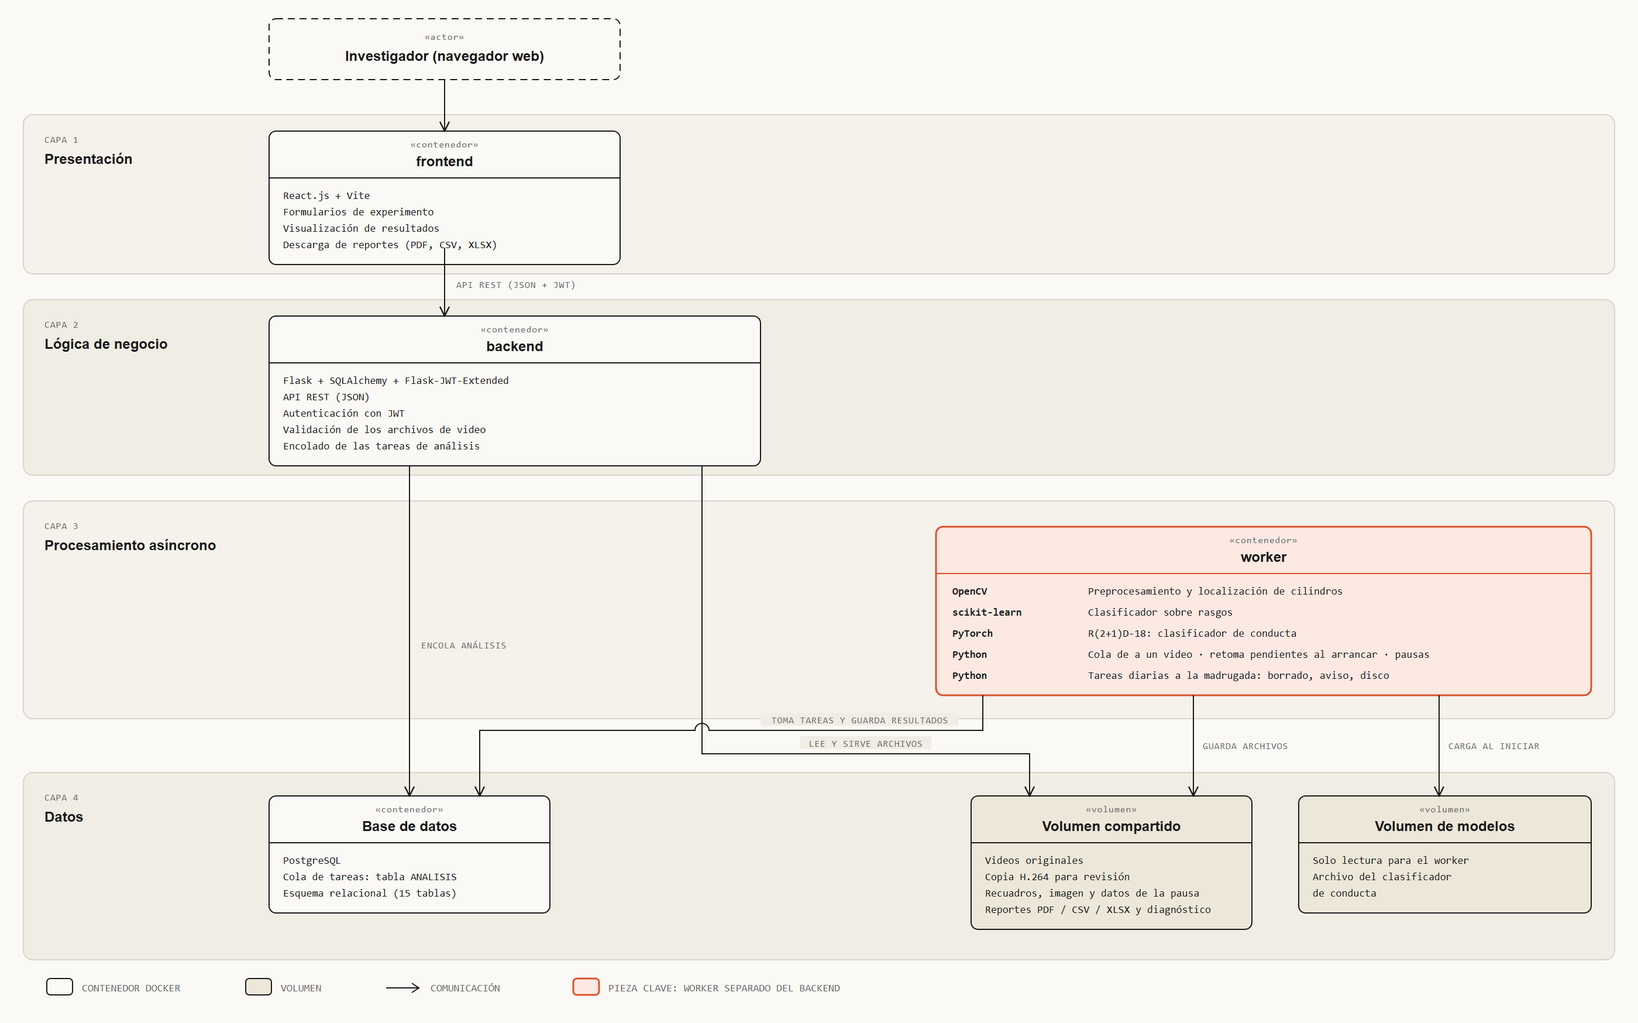
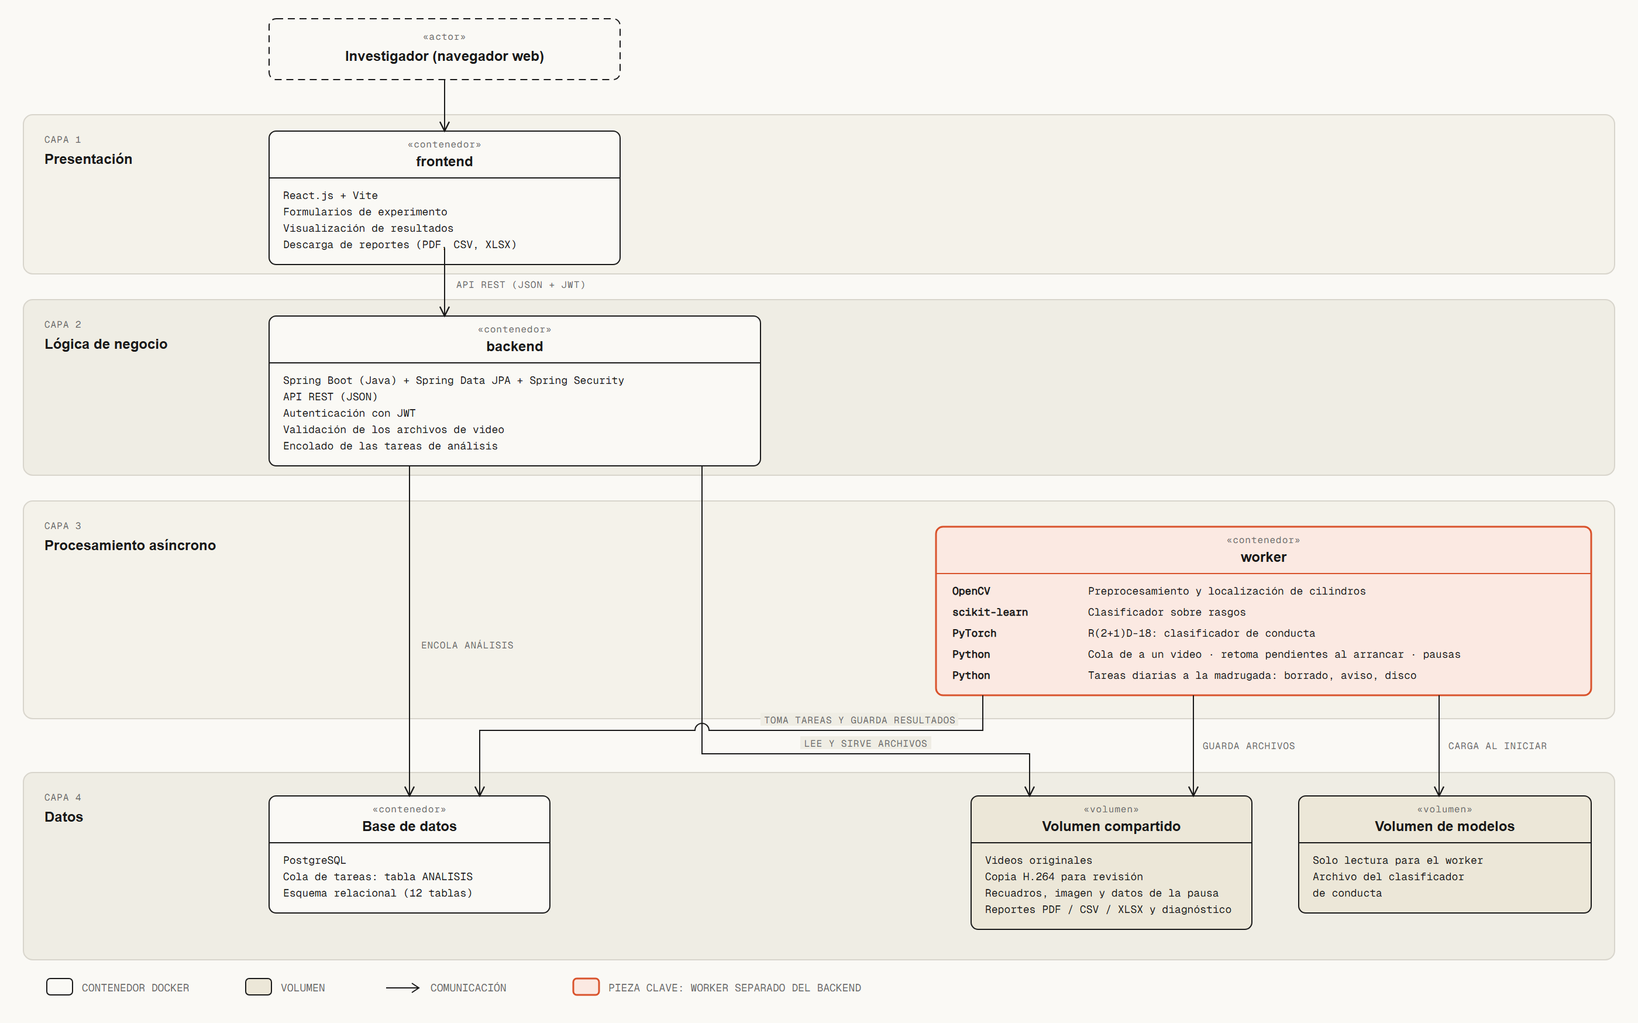
Propagar el backend en Spring Boot (D-105) a los capítulos 1, 3, 4 y 5, el glosario, la bibliografía y las figuras de arquitectura
Flask, SQLAlchemy y Flask-JWT-Extended pasan a Spring Boot con Spring Data JPA e Hibernate y Spring Security: cronograma y stack del capítulo 1, arquitectura del capítulo 3, tabla de herramientas, licencias, costos y mantenibilidad del capítulo 4, componentes del capítulo 5 y entradas del glosario. Se reemplaza la cita del libro de Flask por la documentación de Spring Boot y se quita la cita que respaldaba la separación de capas y las convenciones HTTP. Se regeneran las figuras de capas y de contenedores y se corrige en ellas el conteo de tablas (12).

diff --git a/diagramas/diagram_design/arquitectura_capas.html b/diagramas/diagram_design/arquitectura_capas.html
@@ -8,7 +8,7 @@ body{overflow-x:auto;overflow-y:hidden}
 svg{display:block;height:100vh;width:auto}
 </style></head><body><svg viewBox="0 6 1400 874" role="img" aria-labelledby="ca-title ca-desc" xmlns="http://www.w3.org/2000/svg">
 <title id="ca-title">Arquitectura de software por capas</title>
-<desc id="ca-desc">Cuatro capas: presentación (React), lógica de negocio (Flask), procesamiento asíncrono (worker con OpenCV, scikit-learn y PyTorch) y datos (PostgreSQL y dos volúmenes).</desc>
+<desc id="ca-desc">Cuatro capas: presentación (React), lógica de negocio (Spring Boot), procesamiento asíncrono (worker con OpenCV, scikit-learn y PyTorch) y datos (PostgreSQL y dos volúmenes).</desc>
 <defs><marker id="c-arr" viewBox="0 0 10 10" refX="9" refY="5" markerWidth="10" markerHeight="10" markerUnits="userSpaceOnUse" orient="auto"><path d="M1,1 L9,5 L1,9" fill="none" stroke="#1a1a1a" stroke-width="1.2"/></marker></defs>
 <style>
 .a{font:400 9px 'Geist Mono',monospace;fill:#1a1a1a}
@@ -44,7 +44,7 @@ svg{display:block;height:100vh;width:auto}
 <text x="440.0" y="290" text-anchor="middle" class="st">«contenedor»</text>
 <text x="440.0" y="306" text-anchor="middle" class="nm">backend</text>
 <line x1="230" y1="316" x2="650" y2="316" stroke="#1a1a1a"/>
-<text x="242" y="334" class="a">Flask + SQLAlchemy + Flask-JWT-Extended</text>
+<text x="242" y="334" class="a">Spring Boot (Java) + Spring Data JPA + Spring Security</text>
 <text x="242" y="348" class="a">API REST (JSON)</text>
 <text x="242" y="362" class="a">Autenticación con JWT</text>
 <text x="242" y="376" class="a">Validación de los archivos de video</text>
@@ -69,7 +69,7 @@ svg{display:block;height:100vh;width:auto}
 <line x1="230" y1="726" x2="470" y2="726" stroke="#1a1a1a"/>
 <text x="242" y="744" class="a">PostgreSQL</text>
 <text x="242" y="758" class="a">Cola de tareas: tabla ANALISIS</text>
-<text x="242" y="772" class="a">Esquema relacional (15 tablas)</text>
+<text x="242" y="772" class="a">Esquema relacional (12 tablas)</text>
 <rect x="830" y="686" width="240" height="114" rx="6" fill="#ece7d8" stroke="#1a1a1a" stroke-width="1"/>
 <text x="950.0" y="700" text-anchor="middle" class="st">«volumen»</text>
 <text x="950.0" y="716" text-anchor="middle" class="nm">Volumen compartido</text>

diff --git a/diagramas/diagram_design/contenedores.html b/diagramas/diagram_design/contenedores.html
@@ -53,7 +53,7 @@ svg{display:block;height:100vh;width:auto}
 <text x="540.0" y="314" text-anchor="middle" class="st">«contenedor»</text>
 <text x="540.0" y="330" text-anchor="middle" class="nm">backend</text>
 <line x1="410" y1="340" x2="670" y2="340" stroke="#1a1a1a"/>
-<text x="422" y="358" class="a">Flask + SQLAlchemy + JWT</text>
+<text x="422" y="358" class="a">Spring Boot (Java) + Spring Data JPA + JWT</text>
 <text x="422" y="372" class="a">API REST (JSON)</text>
 <text x="422" y="386" class="a">Valida los archivos de video</text>
 <text x="422" y="400" class="a">Encola las tareas de análisis</text>
@@ -63,7 +63,7 @@ svg{display:block;height:100vh;width:auto}
 <line x1="750" y1="160" x2="980" y2="160" stroke="#1a1a1a"/>
 <text x="762" y="178" class="a">PostgreSQL</text>
 <text x="762" y="192" class="a">Cola de tareas: tabla ANALISIS</text>
-<text x="762" y="206" class="a">Esquema relacional (15 tablas)</text>
+<text x="762" y="206" class="a">Esquema relacional (12 tablas)</text>
 <rect x="1060" y="300" width="280" height="170" rx="6" fill="#fbe9e2" stroke="#d9532c" stroke-width="1.5"/>
 <text x="1200.0" y="314" text-anchor="middle" class="st">«contenedor»</text>
 <text x="1200.0" y="330" text-anchor="middle" class="nm">worker</text>

diff --git a/chapters/04_analisis.tex b/chapters/04_analisis.tex
@@ -437,8 +437,8 @@ RNF-11 & Escalabilidad
 \hline
 RNF-12 & Mantenibilidad
        & El código debe estar documentado y separado en módulos independientes
-         (\textit{backend}, \textit{pipeline} de análisis de video, \textit{frontend}), siguiendo PEP~8 en Python y ESLint
-         en JavaScript.
+         (\textit{backend}, \textit{pipeline} de análisis de video, \textit{frontend}), siguiendo PEP~8 en Python, las convenciones estándar de Java en el
+         \textit{backend} y ESLint en JavaScript.
        & Revisión de calidad de código en cada cierre de bloque de
          implementación. \\
 \hline
@@ -806,11 +806,14 @@ Etiquetador del equipo
 \hline
 \endfoot
 
-Flask (Python) \cite{grinberg2018}
-    & Microframework ligero para APIs REST. Extensiones para JWT
-      (Flask-JWT-Extended), ORM (SQLAlchemy) y tareas asíncronas.
-    & Suficiente para el tamaño del prototipo. Integra el \textit{pipeline} de análisis de video sin
-      necesitar un framework más pesado. \\
+Spring Boot (Java) \cite{springboot_ref}
+    & Marco para construir APIs REST en Java. Incluye autenticación y autorización
+      (Spring Security), persistencia con Spring Data JPA e Hibernate (ORM),
+      documentación de la API (Swagger), validaciones y envío de correo.
+    & El equipo lo conoce de clase y el \textit{backend} sigue esa misma estructura
+      (controladores, servicios y repositorios). El \textit{pipeline} corre en el
+      \textit{worker}, un proceso aparte, así que el lenguaje del \textit{backend} no
+      limita al análisis de video. \\
 \hline
 React.js + Vite
     & Framework \textit{frontend} basado en componentes. Vite reduce los tiempos de
@@ -820,7 +823,7 @@ React.js + Vite
 \hline
 PostgreSQL
     & Base de datos relacional con transacciones ACID y código abierto.
-    & Cubre los patrones de acceso del sistema y se integra con SQLAlchemy. \\
+    & Cubre los patrones de acceso del sistema y se integra con JPA e Hibernate. \\
 \hline
 Docker + Docker Compose \cite{merkel2014}
     & Empaqueta todos los servicios (\textit{backend}, \textit{frontend}, base de datos, worker) en
@@ -939,7 +942,7 @@ implementar el prototipo de forma eficiente y sostenible \cite{pressman2014}.
 \subsubsection{Evaluación de recursos actuales y brechas tecnológicas}
 
 El equipo de desarrollo cuenta con experiencia en las herramientas del stack tecnológico
-seleccionado ---Python, OpenCV, PyTorch, Flask y React--- adquirida en cursos de la
+seleccionado ---Python, OpenCV, PyTorch, Java con Spring Boot y React--- adquirida en cursos de la
 carrera en la ESCOM. Todas las herramientas son de código abierto, están bien
 documentadas y tienen comunidades activas que reducen el riesgo de incompatibilidades.
 
@@ -973,7 +976,7 @@ etapa con el dataset disponible.
 \subsubsection{Evaluación de compatibilidad e integración}
 
 El prototipo tiene una arquitectura modular que separa el \textit{pipeline} de análisis de video
-(Python, OpenCV, scikit-learn y PyTorch) de la plataforma web (Flask, React, PostgreSQL) mediante una
+(Python, OpenCV, scikit-learn y PyTorch) de la plataforma web (Spring Boot, React, PostgreSQL) mediante una
 cola de tareas asíncrona. Esa separación permite desarrollar y probar cada módulo de
 forma independiente y facilita la integración progresiva conforme avanza el desarrollo.
 
@@ -1093,7 +1096,7 @@ Conectividad e infraestructura (internet y electricidad durante el desarrollo,
       12~meses)
     & \$4{,}500 \\
 \hline
-Herramientas de desarrollo (Python, Flask, React, PostgreSQL, Docker, OpenCV,
+Herramientas de desarrollo (Python, Java, Spring Boot, React, PostgreSQL, Docker, OpenCV,
       scikit-learn, PyTorch)
     & \$0 --- distribución bajo licencias de código abierto sin costo para uso
       académico. \\
@@ -1210,8 +1213,9 @@ manejo de especímenes de laboratorio en investigación biomédica.
 
 Cada herramienta del \textit{stack} tecnológico se distribuye bajo una licencia que
 permite su uso, modificación y distribución en contextos académicos sin costo:
-PSF (Python), BSD-3-Clause (Flask, scikit-learn y PyTorch), MIT (React), PostgreSQL
-License (PostgreSQL) y Apache~2.0 (Docker y OpenCV).
+PSF (Python), GPL~v2 con la excepción \textit{Classpath} (OpenJDK, que ejecuta Java),
+BSD-3-Clause (scikit-learn y PyTorch), MIT (React), PostgreSQL License (PostgreSQL) y
+Apache~2.0 (Spring Boot, Docker y OpenCV).
 El código fuente, los modelos entrenados y la documentación
 producidos durante el TT son obra intelectual del equipo desarrollador y quedan
 amparados por la Ley Federal del Derecho de Autor (LFDA).
@@ -1253,7 +1257,7 @@ el caso para el que fue construido.
 \subsection{Mantenibilidad del sistema}
 
 El sistema se entrega como prototipo funcional. Para mantenerlo hace falta conocimiento
-básico de Python y Docker. La documentación técnica de este documento y el
+básico de Python, Java y Docker. La documentación técnica de este documento y el
 \texttt{README} del repositorio están diseñados para que cualquiera que retome el
 proyecto pueda entenderlo sin el equipo original. Las herramientas principales (OpenCV,
-PyTorch, Flask, React, PostgreSQL) tienen desarrollo activo y comunidades grandes.
+PyTorch, Spring Boot, React, PostgreSQL) tienen desarrollo activo y comunidades grandes.

diff --git a/chapters/05_diseno.tex b/chapters/05_diseno.tex
@@ -25,7 +25,7 @@ de los distintos actores del sistema.
 
 La decisión de diseño más importante fue separar el \textit{worker} (proceso de segundo
 plano) del \textit{backend} en un proceso independiente. La opción más simple habría sido ejecutar el \textit{pipeline} dentro del mismo
-servidor Flask, pero eso significa bloquear todas las peticiones HTTP mientras un video
+servidor del \textit{backend}, pero eso significa ocupar al servidor web mientras un video
 de 5 minutos se procesa (el análisis cubre como máximo 300~s). El \textit{worker} resuelve ese problema a costa de mayor complejidad
 de operación: hace falta una cola de tareas, un proceso adicional y comunicación
 entre procesos. Esa complejidad extra está justificada porque el laboratorio puede
@@ -43,7 +43,7 @@ bloquear al servidor web mientras procesa los videos.
 
 La Figura~\ref{fig:arquitectura_software} muestra qué tecnología reside en cada
 contenedor y cómo se comunican entre sí. Se distinguen cuatro grupos: la capa de
-presentación (React.js + Vite), la lógica de negocio (Flask + SQLAlchemy), el
+presentación (React.js + Vite), la lógica de negocio (Spring Boot + Spring Data JPA), el
 procesamiento asíncrono (OpenCV, scikit-learn y PyTorch) y la capa de datos
 (PostgreSQL, sistema de archivos y volumen de modelos entrenados). El archivo del
 clasificador de conducta reside en un volumen Docker dedicado que el worker monta al
@@ -64,10 +64,10 @@ Las responsabilidades de cada componente son:
         No tiene acceso directo a la base de datos ni al sistema de archivos del
         servidor.
 
-  \item \textbf{Backend (Flask):} expone la API REST, gestiona la autenticación con
+  \item \textbf{Backend (Spring Boot):} expone la API REST, gestiona la autenticación con
         JWT, valida los archivos subidos, encola las tareas de análisis y devuelve
-        los resultados al \textit{frontend}. Usa SQLAlchemy como ORM para interactuar con
-        PostgreSQL.
+        los resultados al \textit{frontend}. Usa Spring Data JPA, con Hibernate como ORM,
+        para interactuar con PostgreSQL.
 
   \item \textbf{Worker (Python):} proceso independiente que consume tareas de la
         cola, ejecuta el \textit{pipeline} completo de análisis (preprocesamiento, localización
@@ -654,7 +654,7 @@ FNBC &
 \section{Diseño de la API REST}
 % -----------------------------------------------------------
 
-La API REST sigue las convenciones HTTP estándar \cite{grinberg2018}. Es una API de
+La API REST sigue las convenciones HTTP estándar. Es una API de
 nivel~2 del modelo de madurez de Richardson: cada recurso tiene su propia ruta y los
 verbos HTTP se usan con su significado (\texttt{GET} consulta, \texttt{POST} crea,
 \texttt{PATCH} modifica solo los campos que se envían y \texttt{DELETE} elimina). No

diff --git a/diagramas/diagram_design/generadores/gen_capas.py b/diagramas/diagram_design/generadores/gen_capas.py
@@ -46,7 +46,7 @@ out.append('<text x="380" y="58" text-anchor="middle" class="nm">Investigador (n
 # Capa 1
 plain(230, 118, 300, ['React.js + Vite', 'Formularios de experimento', 'Visualización de resultados', 'Descarga de reportes (PDF, CSV, XLSX)'], 'frontend', 'contenedor')
 # Capa 2
-plain(230, 276, 420, ['Flask + SQLAlchemy + Flask-JWT-Extended', 'API REST (JSON)', 'Autenticación con JWT', 'Validación de los archivos de video', 'Encolado de las tareas de análisis'], 'backend', 'contenedor')
+plain(230, 276, 420, ['Spring Boot (Java) + Spring Data JPA + Spring Security', 'API REST (JSON)', 'Autenticación con JWT', 'Validación de los archivos de video', 'Encolado de las tareas de análisis'], 'backend', 'contenedor')
 # Capa 3: worker (pieza clave)
 wx, wy, ww = 800, 456, 560
 rows = [('OpenCV', 'Preprocesamiento y localización de cilindros'),
@@ -65,7 +65,7 @@ for i, (a, b) in enumerate(rows):
     out.append(f'<text x="{wx+130}" y="{yy}" class="a">{esc(b)}</text>')
 wbot = wy + wh
 # Capa 4
-dbb = plain(230, 686, 240, ['PostgreSQL', 'Cola de tareas: tabla ANALISIS', 'Esquema relacional (15 tablas)'], 'Base de datos', 'contenedor')
+dbb = plain(230, 686, 240, ['PostgreSQL', 'Cola de tareas: tabla ANALISIS', 'Esquema relacional (12 tablas)'], 'Base de datos', 'contenedor')
 plain(830, 686, 240, ['Videos originales', 'Copia H.264 para revisión', 'Recuadros, imagen y datos de la pausa', 'Reportes PDF / CSV / XLSX y diagnóstico'], 'Volumen compartido', 'volumen', fill='#ece7d8')
 plain(1110, 686, 250, ['Solo lectura para el worker', 'Archivo del clasificador', 'de conducta'], 'Volumen de modelos', 'volumen', fill='#ece7d8')
 
@@ -102,7 +102,7 @@ legend = '''<g transform="translate(40,850)" class="lg">
 
 svg = f'''<svg viewBox="0 6 {W} {H-6}" role="img" aria-labelledby="ca-title ca-desc" xmlns="http://www.w3.org/2000/svg">
 <title id="ca-title">Arquitectura de software por capas</title>
-<desc id="ca-desc">Cuatro capas: presentación (React), lógica de negocio (Flask), procesamiento asíncrono (worker con OpenCV, scikit-learn y PyTorch) y datos (PostgreSQL y dos volúmenes).</desc>
+<desc id="ca-desc">Cuatro capas: presentación (React), lógica de negocio (Spring Boot), procesamiento asíncrono (worker con OpenCV, scikit-learn y PyTorch) y datos (PostgreSQL y dos volúmenes).</desc>
 <defs><marker id="c-arr" viewBox="0 0 10 10" refX="9" refY="5" markerWidth="10" markerHeight="10" markerUnits="userSpaceOnUse" orient="auto"><path d="M1,1 L9,5 L1,9" fill="none" stroke="#1a1a1a" stroke-width="1.2"/></marker></defs>
 <style>
 .a{{font:400 9px 'Geist Mono',monospace;fill:#1a1a1a}}

diff --git a/diagramas/diagram_design/generadores/gen_contenedores.py b/diagramas/diagram_design/generadores/gen_contenedores.py
@@ -8,8 +8,8 @@ def box(name, stereo, title, lines, x, y, w, kind='cont'):
 # ---- Contenido tomado de los capitulos 1-5 (ver notas en el mensaje) ----
 box('nav', 'dispositivo', 'Equipo del investigador', ['Navegador web:', 'Chrome · Firefox · Edge'], 40, 300, 200, 'ext')
 box('fe', 'contenedor', 'frontend', ['React.js + Vite', 'Interfaz del investigador', 'Descarga de reportes (PDF, CSV, XLSX)'], 410, 120, 260)
-box('be', 'contenedor', 'backend', ['Flask + SQLAlchemy + JWT', 'API REST (JSON)', 'Valida los archivos de video', 'Encola las tareas de análisis'], 410, 300, 260)
-box('db', 'contenedor', 'db', ['PostgreSQL', 'Cola de tareas: tabla ANALISIS', 'Esquema relacional (15 tablas)'], 750, 120, 230)
+box('be', 'contenedor', 'backend', ['Spring Boot (Java) + Spring Data JPA + JWT', 'API REST (JSON)', 'Valida los archivos de video', 'Encola las tareas de análisis'], 410, 300, 260)
+box('db', 'contenedor', 'db', ['PostgreSQL', 'Cola de tareas: tabla ANALISIS', 'Esquema relacional (12 tablas)'], 750, 120, 230)
 box('wk', 'contenedor', 'worker', ['Python · OpenCV · scikit-learn · PyTorch', 'Pipeline de análisis conductual', 'Consulta la cola; un video a la vez', 'Al arrancar, retoma lo que quedó a medias', 'Diarias (madrugada): borra videos a 30 días,', 'avisa del vencimiento y vigila el disco', 'Revisa el disco antes de cada análisis', 'Clasificador sobre rasgos: sin GPU'], 1060, 300, 280)
 box('vc', 'volumen', 'Volumen compartido', ['Videos originales', 'Copia del video para revisión (H.264)', 'Por análisis: recuadros, imagen y datos', 'de la pausa y reporte de diagnóstico', 'Reportes PDF / CSV / XLSX'], 750, 500, 230, 'vol')
 box('vm', 'volumen', 'Volumen de modelos', ['Solo lectura para el worker', 'Archivo del clasificador de conducta'], 1060, 500, 280, 'vol')

diff --git a/chapters/03_marco_teorico.tex b/chapters/03_marco_teorico.tex
@@ -311,9 +311,9 @@ experimental.
 \subsection{Arquitectura cliente-servidor y API REST}
 
 El sistema tiene tres capas: el frontend (React.js) corre en el navegador del
-investigador, el backend (Flask) gestiona la lógica de negocio a través de una API
+investigador, el backend (Spring Boot) gestiona la lógica de negocio a través de una API
 REST, y la base de datos (PostgreSQL) persiste los datos. Esta separación permite que
-frontend y backend evolucionen de forma independiente \cite{grinberg2018}.
+frontend y backend evolucionen de forma independiente.
 
 La API REST usa semántica HTTP estándar: \texttt{GET} para consultar,
 \texttt{POST} para crear, \texttt{PUT}/\texttt{PATCH} para actualizar y
@@ -349,8 +349,9 @@ con soporte para transacciones ACID (\textit{Atomicity, Consistency, Isolation,
 Durability}), que garantizan que las operaciones de escritura son seguras incluso ante
 fallos del sistema. En una base de datos relacional, la información se organiza en tablas
 relacionadas entre sí mediante llaves. Las consultas se abstraen con
-SQLAlchemy como ORM (\textit{Object-Relational Mapping}, mapeo objeto-relacional), lo que permite cambiar el
-motor de base de datos sin modificar el código de la aplicación.
+la especificación \textit{Jakarta Persistence} (JPA), que Hibernate implementa como ORM
+(\textit{Object-Relational Mapping}, mapeo objeto-relacional), lo que evita escribir SQL
+directamente en la lógica de negocio.
 
 % ============================================================
 \section{Métricas de evaluación}

diff --git a/chapters/01_introduccion.tex b/chapters/01_introduccion.tex
@@ -418,7 +418,7 @@ Revisiones mensuales con directores e investigador del laboratorio
 \hline
 \multicolumn{13}{|l|}{\textbf{TT-II --- Implementación y pruebas (julio--enero)}} \\
 \hline
-Entorno Flask\,/\,PostgreSQL\,/\,Docker, esquema de la base de datos y API REST
+Entorno Spring Boot\,/\,PostgreSQL\,/\,Docker, esquema de la base de datos y API REST
   & & & & & & $\bullet$ & $\bullet$ & & & & & \\
 \hline
 Autenticación y control de acceso (\textit{JSON Web Token}, JWT, y roles)
@@ -502,9 +502,9 @@ Redacción de caps.\ resultados, manuales y material de defensa
 \end{tabular}
 \end{sidewaystable}
 
-El \textit{stack} (conjunto de tecnologías) técnico cubre los dos frentes del proyecto: Python con Flask, OpenCV,
-scikit-learn, PyTorch y PostgreSQL para el \textit{pipeline} y el \textit{backend}; React.js
-para el \textit{frontend}; un etiquetador propio del equipo, que propone la conducta de cada
+El \textit{stack} (conjunto de tecnologías) técnico cubre los dos frentes del proyecto: Python con OpenCV,
+scikit-learn y PyTorch para el \textit{pipeline}; Java con Spring Boot para el \textit{backend};
+PostgreSQL para los datos; React.js para el \textit{frontend}; un etiquetador propio del equipo, que propone la conducta de cada
 espécimen y permite revisarla y corregirla, para anotar el \textit{dataset} (conjunto de datos) de conductas; Git
 para control de versiones y Docker para empaquetar el sistema.
 

diff --git a/front/glosario.tex b/front/glosario.tex
@@ -40,7 +40,7 @@
   \textbf{API REST}
   & Interfaz de programación de aplicaciones que sigue las restricciones
     arquitectónicas REST (\textit{Representational State Transfer}). En el
-    sistema propuesto, la API Flask expone los recursos del backend (experimentos,
+    sistema propuesto, la API construida con Spring Boot expone los recursos del backend (experimentos,
     videos, resultados) mediante peticiones HTTP estándar (GET, POST, PATCH, DELETE)
     e intercambia datos en formato JSON. \\[5pt]
 
@@ -198,8 +198,8 @@
   \textbf{ORM}
   & (\textit{Object-Relational Mapping}.) Técnica que abstrae las operaciones de
     base de datos relacional mediante objetos del lenguaje de programación. El
-    backend utiliza SQLAlchemy como ORM para interactuar con PostgreSQL sin
-    escribir SQL directamente en la lógica de negocio. \\[5pt]
+    backend utiliza Hibernate, a través de Spring Data JPA, como ORM para interactuar
+    con PostgreSQL sin escribir SQL directamente en la lógica de negocio. \\[5pt]
 
   \textbf{Overfitting}
   & (Sobreajuste.) Fenómeno en el que un modelo aprende el ruido del conjunto de

diff --git a/diagramas/diagram_design/arquitectura_capas.md b/diagramas/diagram_design/arquitectura_capas.md
@@ -14,9 +14,9 @@ vista de **estructura**: responde «¿de qué está hecho el sistema?». La vist
 | Capa | Contenedor | Tecnología | Qué hace |
 |------|------------|------------|----------|
 | 1. Presentación | `frontend` | React.js + Vite | Formularios de experimento, visualización de resultados, descarga de reportes (PDF, CSV, XLSX) |
-| 2. Lógica de negocio | `backend` | Flask + SQLAlchemy + Flask-JWT-Extended | API REST (JSON), autenticación con JWT, validación de los archivos de video, encolado de las tareas de análisis |
+| 2. Lógica de negocio | `backend` | Spring Boot (Java) + Spring Data JPA + Spring Security | API REST (JSON), autenticación con JWT, validación de los archivos de video, encolado de las tareas de análisis |
 | 3. Procesamiento asíncrono | `worker` | Python, OpenCV, scikit-learn, PyTorch | Ejecuta el pipeline: preprocesamiento, localización de los cilindros y clasificación de conducta |
-| 4. Datos | `db` + 2 volúmenes | PostgreSQL, sistema de archivos | Esquema relacional (15 tablas), videos y reportes (volumen compartido), modelo entrenado (volumen de modelos) |
+| 4. Datos | `db` + 2 volúmenes | PostgreSQL, sistema de archivos | Esquema relacional (12 tablas), videos y reportes (volumen compartido), modelo entrenado (volumen de modelos) |
 
 ## Cómo leer las flechas
 

diff --git a/diagramas/diagram_design/contenedores.md b/diagramas/diagram_design/contenedores.md
@@ -29,7 +29,7 @@ institucional ESCOM»; se renombró el 12-oct.
 Dentro de Docker Compose:
 
 - **frontend:** React.js + Vite.
-- **backend:** Flask + SQLAlchemy + JWT. Valida los videos y encola los análisis.
+- **backend:** Spring Boot (Java) + Spring Data JPA + JWT. Valida los videos y encola los análisis.
 - **worker:** pipeline de análisis (OpenCV, scikit-learn, PyTorch). Consulta la cola
   periódicamente y ejecuta las tareas diarias (borrado de videos a los 30 días, aviso de
   vencimiento y vigilancia del disco; D-82). El clasificador sobre rasgos corre en
